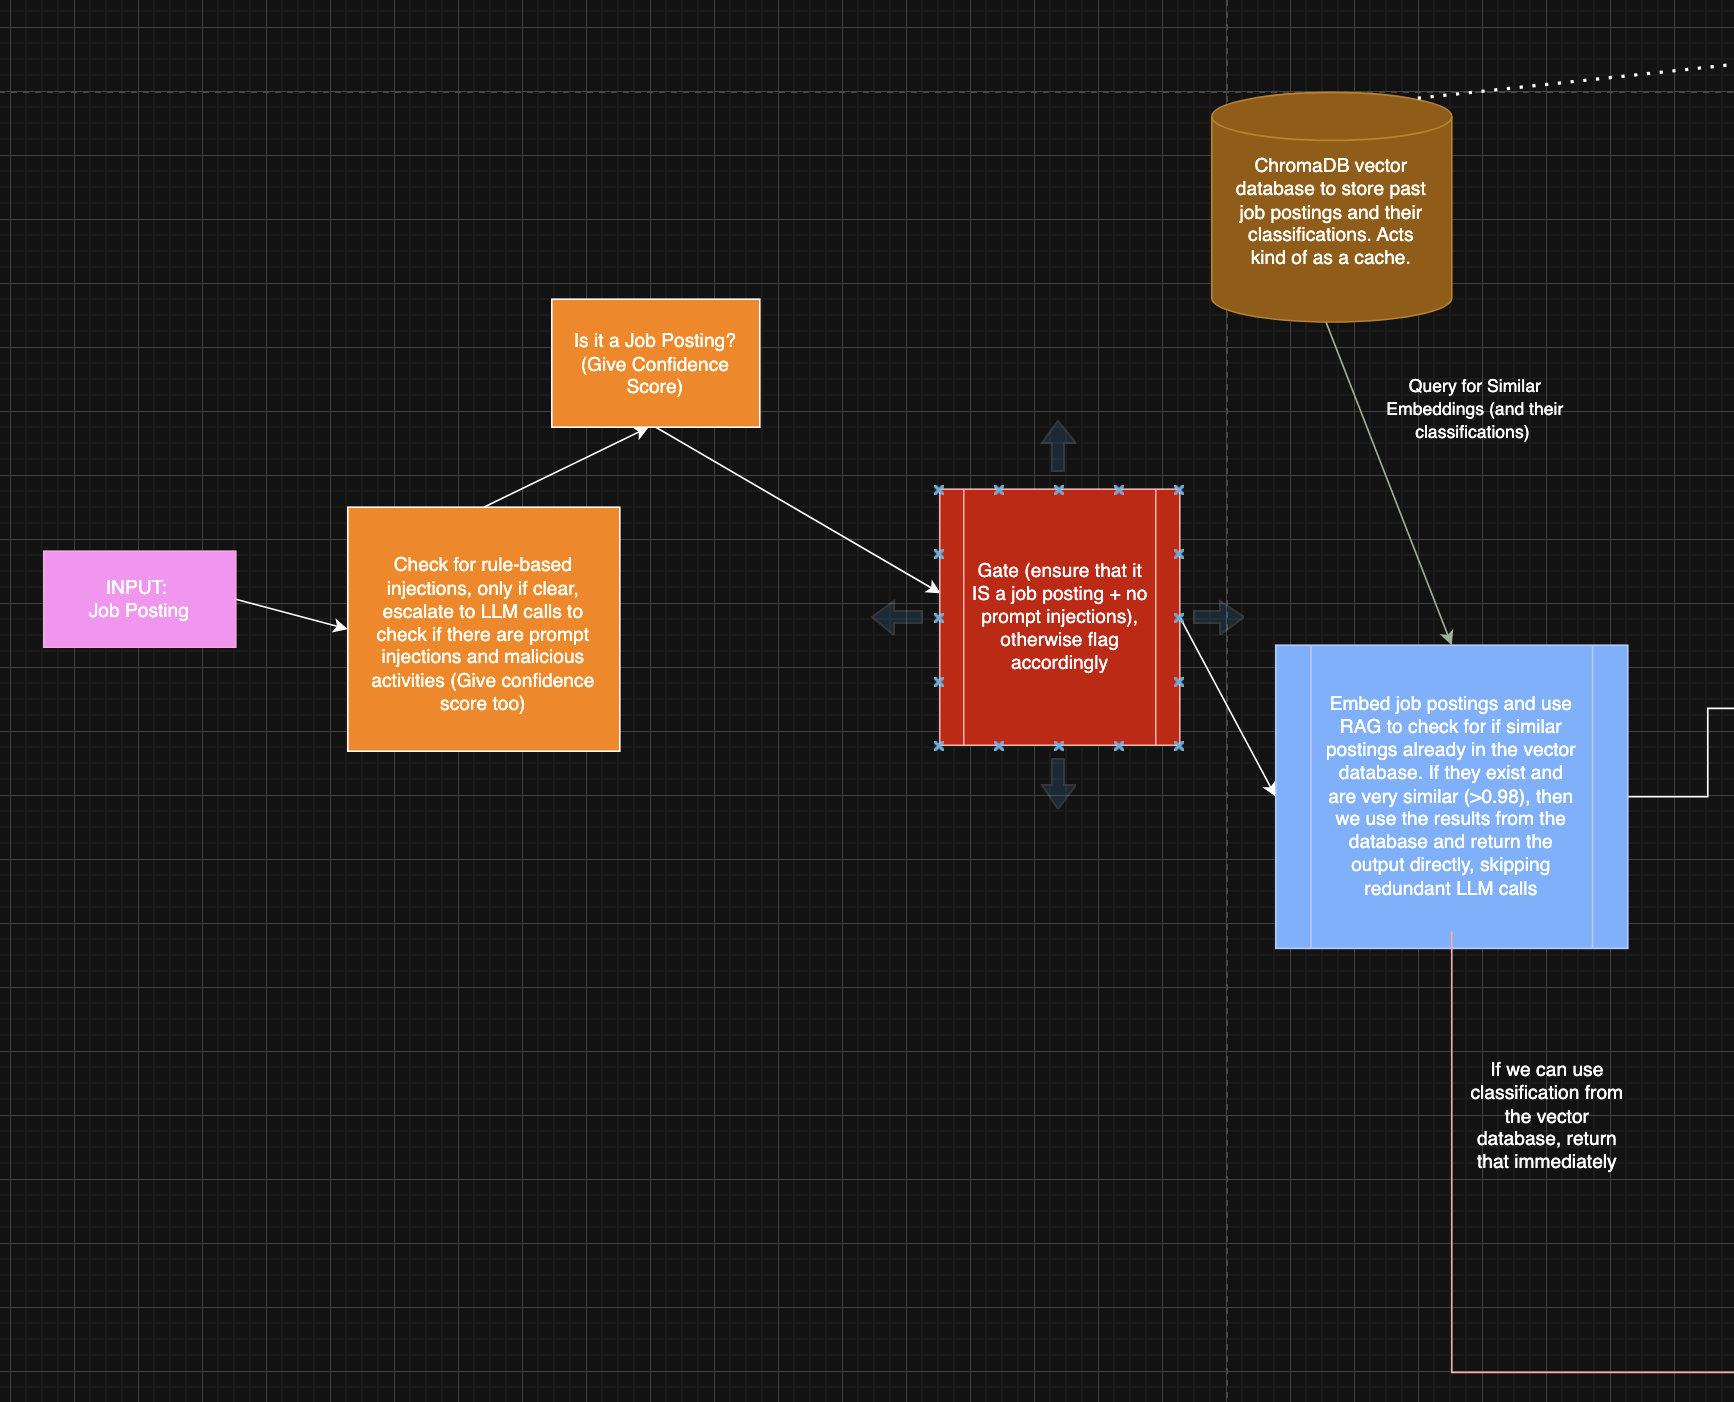
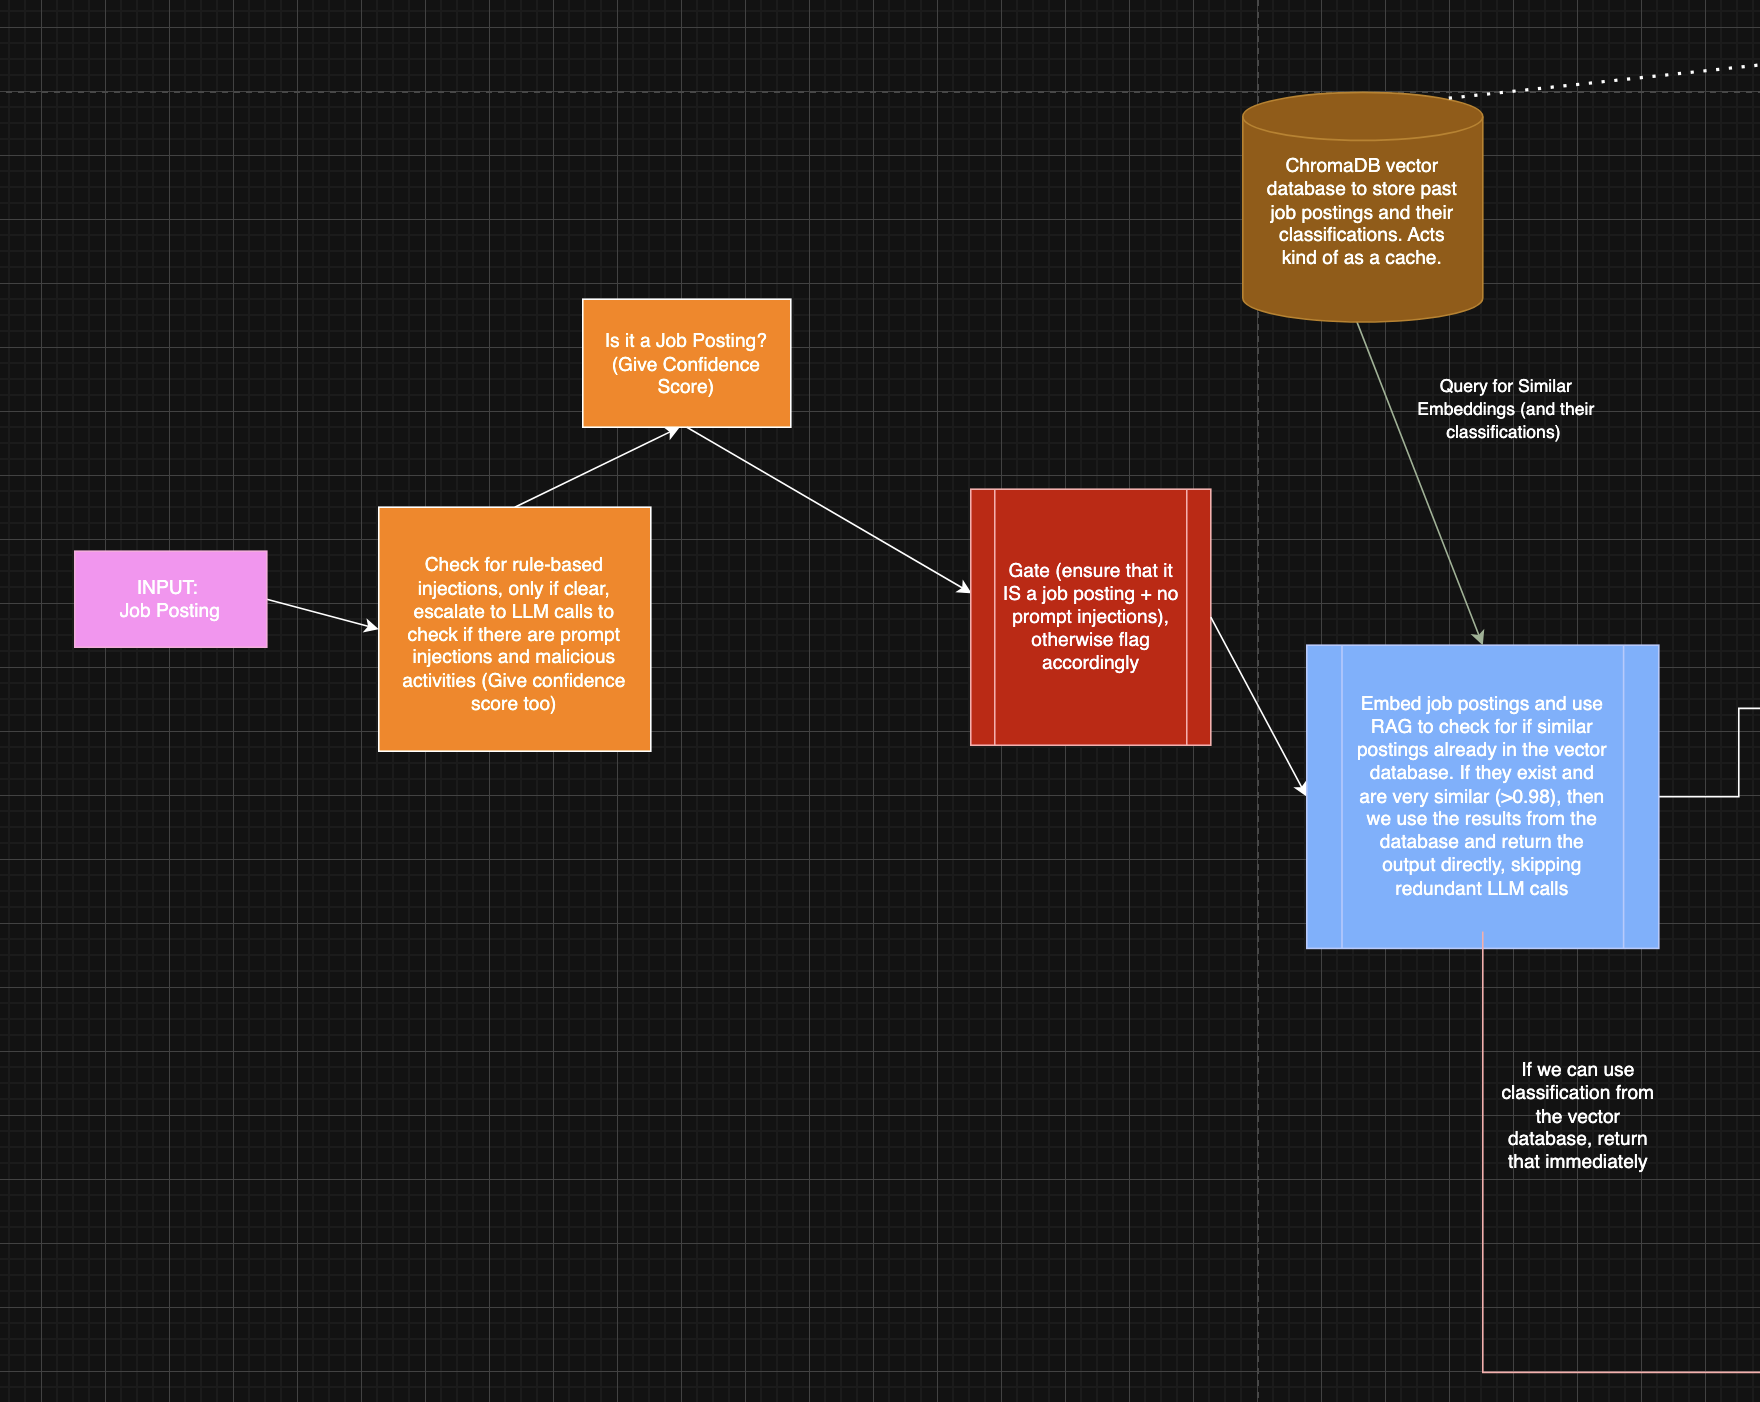
updated README

diff --git a/README.md b/README.md
@@ -17,8 +17,8 @@ meet all of your platform's policies while learning from previous reviews to imp
 The PolicyKit AI agent follows a sophisticated architecture that combines language models, vector search, and policy enforcement. Below is a high-level overview of the system design:
 
 <div style="display: flex; justify-content: space-between;">
-    <img src="docs/images/Agent_Design_Left.png" alt="PolicyKit AI Agent Architecture - Left Side" style="width: 43%;""">
-    <img src="docs/images/Agent_Design_right.png" alt="PolicyKit AI Agent Architecture - Right Side" style="width: 55%;""">
+    <img src="docs/images/Agent_Design_Left.png" alt="PolicyKit AI Agent Architecture - Left Side" style="width: 48%;""">
+    <img src="docs/images/Agent_Design_right.png" alt="PolicyKit AI Agent Architecture - Right Side" style="width: 48%;""">
 </div>
 
 For a detailed, interactive view of the system architecture, you can:
